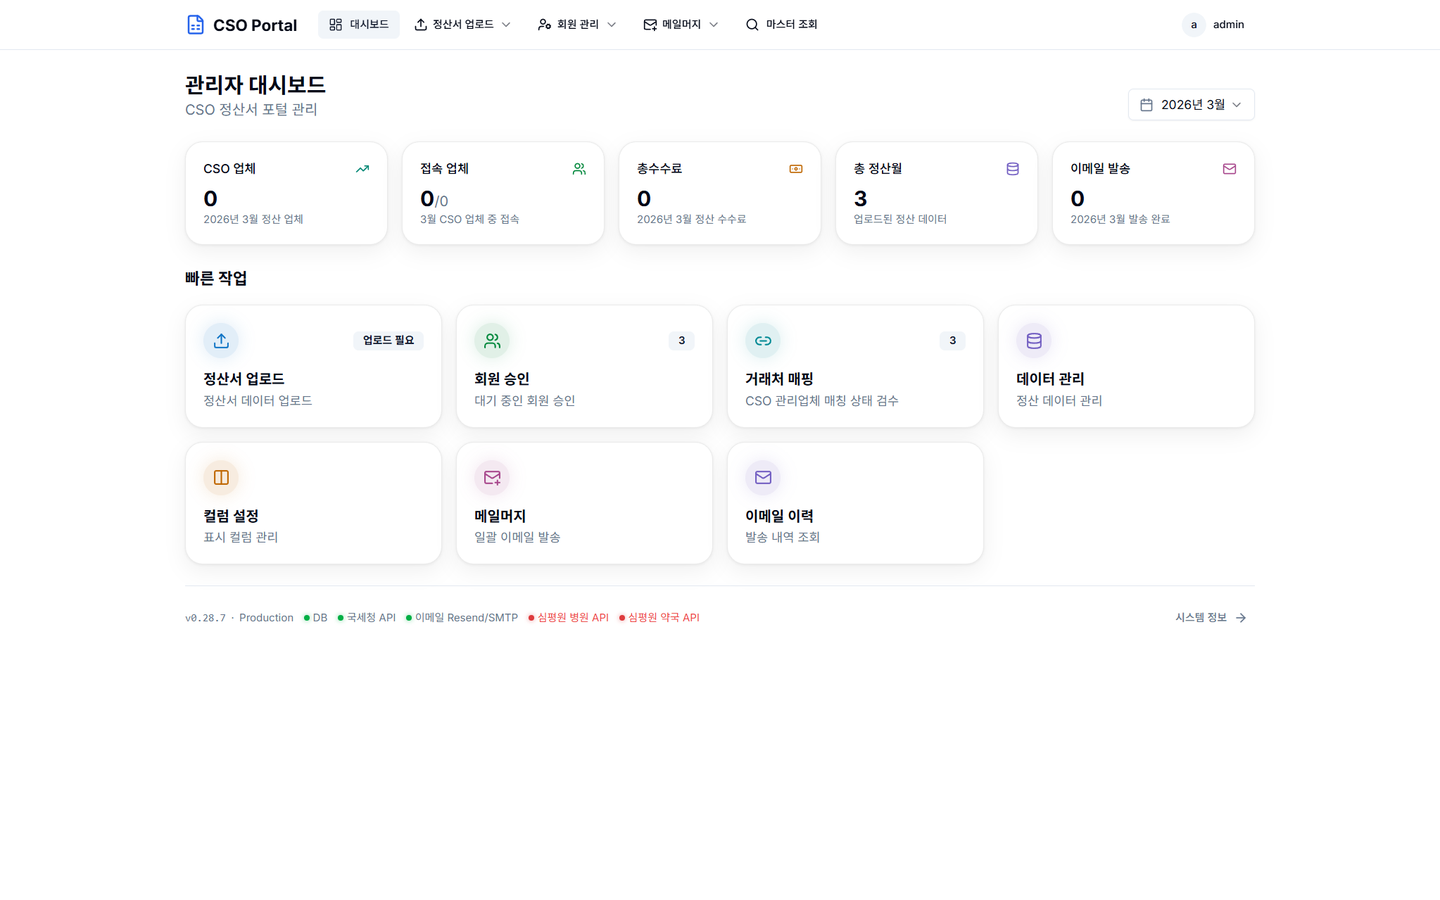
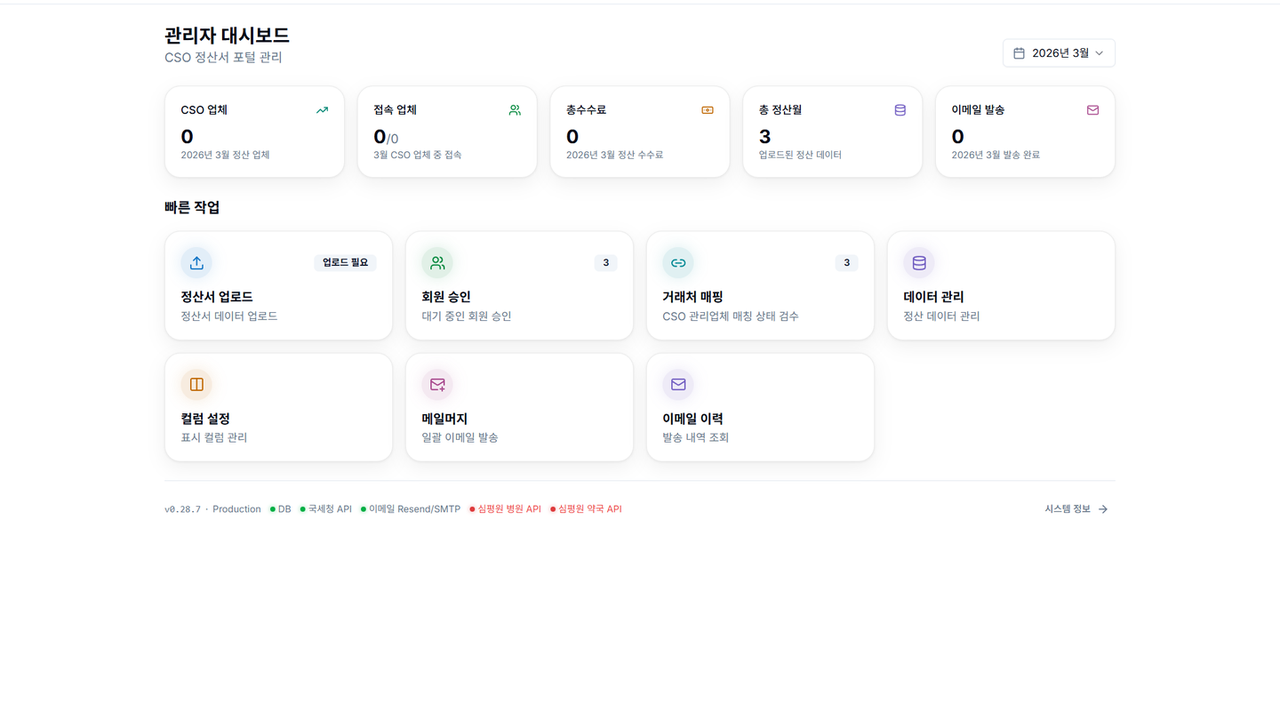
fix: 프로젝트 스크린샷 1280×720 리사이즈 + img 속성 동기화

diff --git a/src/components/sections/FeaturedProjectsSection.tsx b/src/components/sections/FeaturedProjectsSection.tsx
@@ -48,8 +48,8 @@ function ProjectCard({
             <img
               src={project.image}
               alt={`${project.name} 스크린샷`}
-              width={720}
-              height={450}
+              width={1280}
+              height={720}
               className="w-full rounded-xl object-cover"
               loading="lazy"
             />
